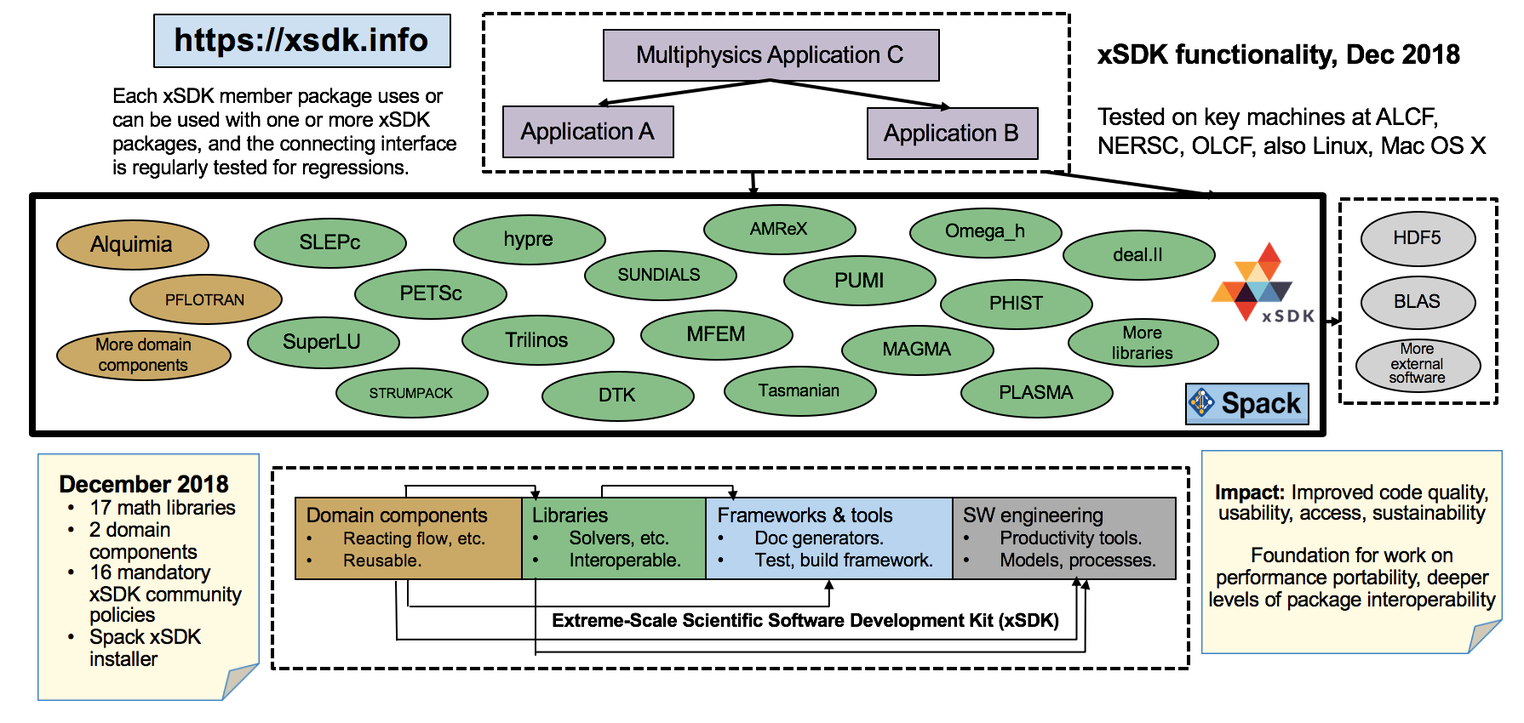
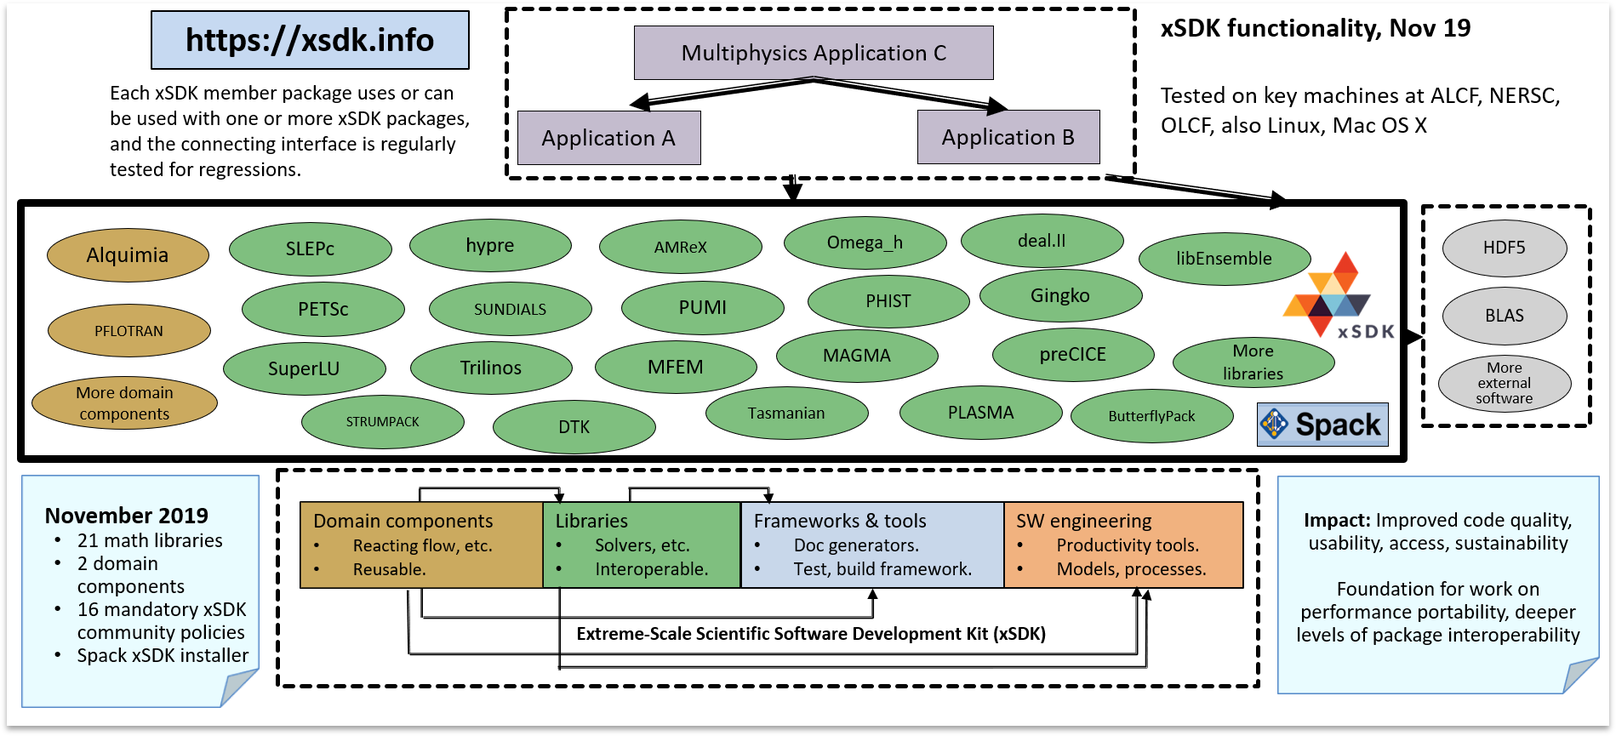
updated xsdk and hypre pages

diff --git a/projects/2.3.3-MathLibs/2.3.3.01-xSDK/2.3.3.01-xSDK.tex b/projects/2.3.3-MathLibs/2.3.3.01-xSDK/2.3.3.01-xSDK.tex
@@ -1,5 +1,5 @@
 \subsubsection{\stid{3.01} xSDK4ECP} 
-\paragraph{Overview} The xSDK4ECP project is creating a value-added aggregation of DOE math and scientific libraries through the {\em xSDK} (Extreme-scale Scientific Software Development Kit)~\cite{xsdk:homepage}, which increases the combined usability, standardization, and interoperability of these libraries as needed by ECP. The project focuses on community development and a commitment to combined success via quality improvement policies, better build infrastructure, and the ability use diverse, independently developed xSDK libraries in combination to solve large-scale multiphysics and multiscale problems.  We are extending draft xSDK package community policies and developing interoperability layers among numerical libraries in order to improve code quality, access, usability, interoperability, and sustainability. Focus areas are (1) coordinated use of on-node resources, (2) integrated execution (control inversion and adaptive execution strategies), and (3) coordinated and sustainable documentation, testing, packaging, and deployment.
+\paragraph{Overview} The xSDK4ECP project is creating a value-added aggregation of DOE math and scientific libraries through the {\em xSDK} (Extreme-scale Scientific Software Development Kit)~\cite{xsdk:homepage}, which increases the combined usability, standardization, and interoperability of these libraries as needed by ECP. The project focuses on community development and a commitment to combined success via quality improvement policies, better build infrastructure, and the ability to use diverse, independently developed xSDK libraries in combination to solve large-scale multiphysics and multiscale problems.  We are extending draft xSDK package community policies and developing interoperability layers among numerical libraries in order to improve code quality, access, usability, interoperability, and sustainability. Focus areas are (1) coordinated use of on-node resources, (2) integrated execution (control inversion and adaptive execution strategies), and (3) coordinated and sustainable documentation, testing, packaging, and deployment. Starting FY20, the project will also investigate and deploy multiprecision functionality in the ECP ST ecosystem to enable the use of low-precision hardware function units, reduce the pressure on memory and communication interfaces and achieve improved performance.
 
 xSDK4ECP is needed for ECP because it enables ECP apps such as ExaAM and ExaWind to seamlessly leverage the entire scientific libraries ecosystem.  For example, ExaWind has extremely challenging linear solver scaling problems.  xSDK4ECP provides access to all scalable linear solvers with minimal changes.  xSDK4ECP is also an essential element of the product release process for ECP ST.  xSDK4ECP provides an aggregate build and install capability for all ECP math libraries that supports hierarchical, modular installation of ECP software.  Finally, xSDK4ECP provides a forum for collaborative math library development, helping independent teams to accelerate adoption of best practices, enabling interoperability of independently developed libraries and improving developer productivity and sustainability of the ECP ST software product.
 
@@ -16,30 +16,27 @@ The xSDK effort has two primary thrusts:
 	\item \textbf{Increased use of common best practices:}  The xSDK has a collection of community policies that set expectations for a package, from best design practices to common look-and-feel.
 \end{enumerate}
 
-xSDK interoperability efforts began first with eliminating incompatibilities that prohibited correct compilation and integration of the independently developed libraries.  These issues include being able to use a common version of a library such as SuperLU by PETSc and Trilinos.  The second, and ongoing phase is increased use of one package's capabilities from another.  For example, users who build data objects using PETSc can now access Trilinos solvers without copying to Trilinos data structures.
-
-xSDK community package policies~\cite{xsdk-policies:homepage,
-xSDK-community-package-policies2018} are a set of minimum requirements (including topics of configuring, installing, testing, MPI usage, portability, contact and version information, open source licensing, namespacing, and repository access) that a software package must satisfy in order to be considered xSDK compatible. The designation of xSDK compatibility informs potential users that a package can be easily used with others. 
-
-xSDK community installation policies~\cite{xSDK-community-installation-policies2017} help make configuration and installation of xSDK software and other HPC packages as efficient as possible on common platforms, including standard Linux distributions and Mac OS X, as well as on target machines currently available at DOE computing facilities (ALCF, NERSC, and OLCF) and eventually on new Exascale platforms.
-
+xSDK interoperability efforts began first with eliminating incompatibilities that prohibited correct compilation and integration of the independently developed libraries.  These issues include being able to use a common version of a library such as SuperLU by PETSc and Trilinos.  The second, and ongoing phase is increased use of one package's capabilities from another.  For example, users who build data objects using PETSc can now access Trilinos solvers without copying to Trilinos data structures. xSDK community package policies~\cite{xsdk-policies:homepage,xSDK-community-package-policies2019} are a set of minimum requirements (including topics of configuring, installing, testing, MPI usage, portability, contact and version information, open source licensing, namespacing, and repository access) that a software package must satisfy in order to be considered xSDK compatible. The designation of xSDK compatibility informs potential users that a package can be easily used with others. 
+xSDK community installation policies~\cite{xSDK-community-installation-policies2019} help make configuration and installation of xSDK software and other HPC packages as efficient as possible on common platforms, including standard Linux distributions and Mac OS X, as well as on target machines currently available at DOE computing facilities (ALCF, NERSC, and OLCF) and eventually on new Exascale platforms.
 Community policies for the xSDK promote long-term sustainability and interoperability among packages, as a foundation for supporting complex multiphysics and multiscale ECP applications. In addition, because new xSDK packages will follow the same standard, installation software and package managers (for example, Spack~\cite{gamblin+:sc15}) can easily be extended to install many packages automatically.
 
+For the adaptive execution effort, the team is working towards GPTune, a Gaussian process tuner, to help math library users to find the optimal parameter settings for the libraries to achieve high performance for their applications. In addition, an interface will be created to also give access to alternate autotuners.
+Regarding the multiprecision effort, the project will assess current status and functionalities, advance the theoretical knowledge on multiprecision algorithms, design prototype implementations and multiprecision interoperability layers, deploy production-ready multiprecision algorithms in the xSDK math libraries, ensure multiprecision cross-library interoperability and integrate multiprecision algorithms into ECP application projects.
 
 \paragraph{Recent Progress}
 
 Figure~\ref{fig:xsdk-schematic} illustrates a new {\em Multiphysics
 	Application C}, built from two complementary applications that can
-readily employ any libraries in the xSDK, shown in green.  Current xSDK member packages (xSDK-0.4.0, released December 2018) are the four founding libraries
-(hypre~\cite{hypre:homepage}, PETSc~\cite{petsc:homepage}, SuperLU~\cite{superlu:homepage}, and Trilinos~\cite{trilinos:homepage}), three libraries added in xSDK-0.3.0, released December 2017 (MAGMA~\cite{magma:homepage}, MFEM~\cite{mfem:homepage}, and SUNDIALS~\cite{sundials:homepage}), and ten more libraries added in this release, including seven with DOE support (AMRex~\cite{amrex:homepage}, DTK~\cite{dtk:homepage}, Omega\_h~\cite{omega_h:homepage}, PLASMA~\cite{plasma:homepage}, PUMI~\cite{pumi:homepage}, STRUMPACK~\cite{strumpack:homepage}, and Tasmanian~\cite{tasmanian:homepage}) and three in the broader community (deal.II~\cite{deal.ii:homepage}, PHIST~\cite{phist:homepage}, and SLEPc~\cite{slepc:homepage}).  
+readily employ any libraries in the xSDK, shown in green.  Current xSDK member packages (xSDK-0.5.0, released November 2019) are the four founding libraries
+(hypre~\cite{hypre:homepage}, PETSc~\cite{petsc:homepage}, SuperLU~\cite{superlu:homepage}, and Trilinos~\cite{trilinos:homepage}), three libraries added in xSDK-0.3.0, released December 2017 (MAGMA~\cite{magma:homepage}, MFEM~\cite{mfem:homepage}, and SUNDIALS~\cite{sundials:homepage}), and ten more libraries added xSDK-0.4.0, released in December 2018, including seven with DOE support (AMRex~\cite{amrex:homepage}, DTK~\cite{dtk:homepage}, Omega\_h~\cite{omega_h:homepage}, PLASMA~\cite{plasma:homepage}, PUMI~\cite{pumi:homepage}, STRUMPACK~\cite{strumpack:homepage}, and Tasmanian~\cite{tasmanian:homepage}) and three in the broader community (deal.II~\cite{deal.ii:homepage}, PHIST~\cite{phist:homepage}, and SLEPc~\cite{slepc:homepage}), and four new xSDK members libEnsemble~\cite{libensemble:homepage}, Ginkgo~\cite{ginkgo:homepage}, preCICE~\cite{precice:homepage}, and ButterflyPACK~\cite{butterflypack:homepage}.
 Application domain components are represented
 in orange.  Of particular note is Alquimia~\cite{alquimia:homepage}, a domain-specific interface
 that support uniform access to multiple biogeochemistry capabilities, including
-PFLOTRAN~\cite{pflotran:homepage}.  Additional libraries are working toward becoming xSDK member packages and plan to participate in future xSDK releases.
+PFLOTRAN~\cite{pflotran:homepage}.  Additional libraries have announced their interest in working toward becoming xSDK member packages and participating in future xSDK releases.
 \begin{figure}[htb]
 	\centering
-	\includegraphics[width=6in]{projects/2.3.3-MathLibs/2.3.3.01-xSDK/xSDK-diagram.png}
-	\caption{\label{fig:xsdk-schematic}The December 2018 release of the xSDK contains many of the most popular math and scientific libraries used in HPC.  The above diagram shows how multiphysics and multiscale applications can readily access xSDK packages.}
+	\includegraphics[width=5in]{projects/2.3.3-MathLibs/2.3.3.01-xSDK/xSDK-diagram.png}
+	\caption{\label{fig:xsdk-schematic} The above diagram shows how multiphysics and multiscale applications can readily access xSDK packages.}
 \end{figure}
 
 % The arrows among the xSDK libraries indicate current support for
@@ -51,21 +48,18 @@ PFLOTRAN~\cite{pflotran:homepage}.  Additional libraries are working toward beco
 % a nonlinear system, which in turn could interface to hypre to solve
 % the resulting linear systems with algebraic multigrid.  Of course,
 % many other combinations of solver interoperability are also possible.
-Each xSDK member package uses or can be used with one or more xSDK packages, and the connecting interface is regularly tested for regressions.  
-The sites \url{https://xsdk.info/example-usage} and 
-\url{https://xsdk-project.github.io/ATPESC2018HandsOnLessons}, as well as
-\cite{Klinvex-xSDKTrilinos} provide examples of
-xSDK usage, including interoperability among linear solvers in hypre,
-PETSc, SuperLU, and Trilinos.
-
+%Each xSDK member package uses or can be used with one or more xSDK packages, and the connecting interface is regularly tested for regressions.  
+%The sites \url{https://xsdk.info/example-usage} and \cite{Klinvex-xSDKTrilinos} provide examples of xSDK usage, including interoperability among linear solvers in hypre, PETSc, SuperLU, and Trilinos.
+The xSDK team also continued development of the community policies with a new release 0.5.0. The policies were updated, and a new recommended policy was added with feedback from the ECP community. The policies were moved to github, and the process on changing or proposing policies has been updated.
 
 \paragraph{Next Steps}
 
+Our next efforts include the incorporation of more libraries and the extension of application usage to evaluate the effectiveness of current functionality and to motivate new capabilities. Regarding autotuning of code performance, we will finish a prototype autotuning framework using the multi-output Gaussian process ML approach which includes multitask and transfer learning. The xSDK4ECP team will also investigate the use of multiprecision for math libraries and document the results of the investigation.
+%\begin{enumerate}
+%	\item \textbf{Include more libraries:} xSDK4ECP will continue efforts to expand the number of participating packages, adapt community policies, and exploit increased interoperability.  We are coordinating with broader SDK efforts and working toward the inclusion of additional domain application packages.
+%	\item \textbf{Extend application usage:}  xSDK4ECP will continue partnering with application teams to evaluate the effectivness of current functionality and to motivate new capabilities.
+%	\item \textbf{Autotuning of code performance:} The team will finish a prototype autotuning framework using the multi-output Gaussian Process ML approach which includes multitask and transfer learning.
+%	\item \textbf{Multiprecision effort:} The xSDK4ECP team will investigate the use of multiprecision for the math libraries and document the results of the investigation. 
 
-Our next efforts are:
-\begin{enumerate}
-	\item \textbf{Include more libraries:} xSDK4ECP will continue efforts to expand the number of participating packages, adapt community policies, and exploit increased interoperability.  We are coordinating with broader SDK efforts and working toward the inclusion of additional domain application packages.
-	\item \textbf{Extend application usage:}  xSDK4ECP will continue partnering with application teams to evaluate the effectivness of current functionality and to motivate new capabilities.
-% 		\item \textbf{Process control transfer interfaces:} The ever-increasing use of concurrency within the top-level MPI processes requires that computational resources used by an application or library can be transferred to another library. Transfer of these resources is essential for obtaining good performance.  The xSDK project will develop interfaces to support sharing and transfer of computational resources.
-	
-\end{enumerate}
+% 		\item \textbf{Process control transfer interfaces:} The ever-increasing use of concurrency within the top-level MPI processes requires that computational resources used by an application or library can be transferred to another library. Transfer of these resources is essential for obtaining good performance.  The xSDK project will develop interfaces to support sharing and transfer of computational resources.	
+%\end{enumerate}

diff --git a/projects/2.3.3-MathLibs/2.3.3.12-SUNDIALS-hypre/2.3.3.12-hypre.tex b/projects/2.3.3-MathLibs/2.3.3.12-SUNDIALS-hypre/2.3.3.12-hypre.tex
@@ -2,44 +2,44 @@
 
 
 \paragraph{Overview} 
-The {\sl hypre} software library \cite{hypre,hypre_design_impl_2006} provides high performance preconditioners and solvers for the solution of large sparse linear systems on massively parallel computers, with particular focus on algebraic multigrid solvers. One of {\sl hypre}’s unique features is the provision of a (semi)-structured interface, in addition to a traditional linear-algebra based interface. The semi-structured interface is appropriate for applications whose grids are mostly structured, but with some unstructured features. Examples include block-structured grids, composite grids in structured adaptive mesh refinement (AMR) applications, and overset grids. These interfaces give application users a more natural means for describing their linear systems, and provide access to methods such as structured multigrid solvers, which can take advantage of the additional information beyond just the matrix. Since current architecture trends are favoring regular compute patterns to achieve high performance, the ability to express structure has become much more important. The {\sl hypre} library provides both unstructured and structured multigrid solvers, which have shown excellent scalability on a variety of high performance computers, e.g Blue Gene systems (unstructured solver BoomerAMG has scaled up to 1.25 million MPI cores with a total of 4.5 million hardware threads). It is used by many ECP application teams, including ExaAM, Subsurface, ExaWind, CEED, and more. It requires a C compiler and an MPI implementation, but it also runs in an OpenMP environment. It has some GPU capabilities.
+The {\sl hypre} software library \cite{hypre:homepage,hypre_design_impl_2006} provides high performance preconditioners and solvers for the solution of large sparse linear systems on massively parallel computers, with particular focus on algebraic multigrid solvers. One of {\sl hypre}’s unique features is the provision of a (semi)-structured interface, in addition to a traditional linear-algebra based interface. The semi-structured interface is appropriate for applications whose grids are mostly structured, but with some unstructured features. Examples include block-structured grids, composite grids in structured adaptive mesh refinement (AMR) applications, and overset grids. These interfaces give application users a more natural means for describing their linear systems, and provide access to methods such as structured multigrid solvers, which can take advantage of the additional information beyond just the matrix. Since current architecture trends are favoring regular compute patterns to achieve high performance, the ability to express structure has become much more important. The {\sl hypre} library provides both unstructured and structured multigrid solvers, which have shown excellent scalability on a variety of high performance computers, e.g Blue Gene systems (unstructured solver BoomerAMG has scaled up to 1.25 million MPI cores with a total of 4.5 million hardware threads). It is used by many ECP application teams, including ExaAM, Subsurface, ExaWind, CEED, and more. It requires a C compiler and an MPI implementation, but it also runs in an OpenMP environment. It has some GPU capabilities.
+
 \paragraph{Key  Challenges}
 
-While {\sl hypre}'s solvers contain much parallelism, their main focus is the solution of sparse linear systems, leading to  very large demands on memory bandwidth. In addition, the use of multiple levels, while greatly aiding convergence of the solvers, leads to decreasing systems sizes, number of operations and parallel efficiencies on coarser levels. Particularly the unstructured algebraic multigrid solver BoomerAMG\cite{HeYa2002}, which is {\sl hypre}'s most often used preconditioner, suffers from increasing communication complexities on coarser levels. Coarse grid operators are generated by multiplying three matrices leading to increasing numbers of nonzeroes per row in the resulting matrices and with it increasing numbers of neighbor processes. While BoomerAMG's solve phase mainly consists of matrix vector products and smoothing operations, which are fairly straight forward to parallelize, even on a GPU, its setup phase is highly complex, including many branches, a lot of integer operations as well as some sequential passages. Current  interpolation strategies that lead to best convergence and performance on distributed memory machines are not suitable for implementation on GPUs or similar architectures requiring extreme parallelism. There are several algorithms that are more suitable for GPUs, such as direct interpolation, which however leads to degraded convergence. It could possibly be improved using Jacobi interpolation. All these options would need to be implemented and tested on GPUs. Since {\sl hypre} is a mature product with many solvers and interdependent features, any significant changes that affect the whole library, are tedious and require much testing to ensure that the library stays backward compatible and no features are broken.
+While {\sl hypre}'s solvers contain much parallelism, their main focus is the solution of sparse linear systems, leading to  very large demands on memory bandwidth. In addition, the use of multiple levels, while greatly aiding convergence of the solvers, leads to decreasing systems sizes, number of operations and parallel efficiencies on coarser levels. Particularly the unstructured algebraic multigrid solver BoomerAMG\cite{HeYa2002}, which is {\sl hypre}'s most often used preconditioner, suffers from increasing communication complexities on coarser levels. Coarse grid operators are generated by multiplying three matrices leading to increasing numbers of nonzeroes per row in the resulting matrices and with it increasing numbers of neighbor processes. While BoomerAMG's solve phase mainly consists of matrix vector products and smoothing operations, which are fairly straight forward to parallelize, even on a GPU, its setup phase is highly complex, including many branches, a lot of integer operations as well as some sequential passages. Current  interpolation strategies that lead to best convergence and performance on distributed memory machines are not suitable for implementation on GPUs or similar architectures requiring extreme parallelism. Since {\sl hypre} is a mature product with many solvers and interdependent features, any significant changes that affect the whole library, are tedious and require much testing to ensure that the library stays backward compatible and no features are broken.
 
 \paragraph{Solution Strategy}
 
-Since the upcoming computer architectures are heterogeneous with accelerators, it was very important to enable {\sl hypre} for GPUs. We looked into various options, such as the use of CUDA, OpenMP 4.5, as well as RAJA and Kokkos. We limited the latter two options to the structured interface and solvers which are more natural candidates for such an approach due to their use of macros, called BoxLoops, for loops.
-Since computer architectures continue to change rapidly, it is important to come up with strategies that will facilitate future porting of the software. Therefore we decided to develop a new memory model that addresses the use of different memory locations.
+Since computer architectures continue to change rapidly, it was important to come up with strategies that will facilitate future porting of the software. Therefore we developed and implemented a new memory model that addresses the use of different memory locations.
+Since the upcoming computer architectures are heterogeneous with accelerators, we focus on enabling {\sl hypre} for GPUs. We have looked into various options, such as the use of CUDA, OpenMP 4.5, as well as RAJA and Kokkos. We limited the latter two options to the structured interface and solvers which are more natural candidates for such an approach due to their use of macros, called BoxLoops, for loops. We will also investigate the use of HIP and SYCL for AMD and Intel accelerators that will be available on future exascale computers.
 
 \paragraph{Recent Progress}
 
-Under internal LLNL funding we pursued the following ECP-related tasks: enabling portions of several solvers for GPUs, and introducing a new memory model that is based on an abstract machine model.
-We  implemented the new memory model as well as 
-various GPU capabilities in {\sl hypre}. For the structured solvers, SMG and PFMG\cite{AsFa1996}, both setup and solve phase can now completely be run on GPUs, using both CUDA or OpenMP4.5, and do not require unified memory. In addition, options to use RAJA and Kokkos are available, albeit not well tested yet. 
-Porting the unstructured solver, BoomerAMG turned out to be far more complex. Currently only the solve phase can be run on the GPU for select smoothers, mainly Jacobi smoothers, and requires unified memory. The setup phase can currently be performed on the CPU only.
+Previously, we enabled the structured solvers, SMG and PFMG\cite{AsFa1996}, both setup and solve phase, to completely run on GPUs, using both CUDA or OpenMP4.5, and to not require unified memory. In addition, options to use RAJA and Kokkos are available.
+Porting the unstructured solver, BoomerAMG turned out to be far more complex. We first ported the solve phase to GPUs for select smoothers, mainly Jacobi smoothers, requiring unified memory. During the last year, we focused on enabling selected components of the setup phase to run on GPUs, specifically PMIS coarsening, direct interpolation, and the generation of the coarse grid operator, which consists of the multiplication of three sparse matrices. Figure \ref{fig:rap} shows runtime comparisons of different implementations of the coarse grid operator generation on one V-100 GPU or one Power 9, which demonstrate that the hypre GPU implementation outperforms state-of-the-art implementations such as CUSP and cuSPARSE. It is now possible to perform a complete linear system solve with BoomerAMG on GPUs using specific settings.
 
 \begin{figure}
 \centering
-	\includegraphics[width=5in]{projects/2.3.3-MathLibs/2.3.3.01-xSDK/COGMRES.png}
-	\caption{\label{fig:cogmres} Performance of new GMRES on Vulcan at LLNL}
+	\includegraphics[width=5in]{projects/2.3.3-MathLibs/2.3.3.12-SUNDIALS-hypre/hypre-rap-1gpu.png}
+	\caption{\label{fig:rap} Runtimes to generate a coarse grid operator for a 7pt 3d Laplace problem matrix on 1 V-100 GPU or Power 9 CPU with up to 20 OMP threads for various implementations}
 \end{figure}
-`
-Under new ECP funding, we implemented a new GMRES solver that has better communication and parallelization properties than the current one and showed improved performance on a BG/Q. 
-Figure \ref{fig:cogmres} illustrates the percentage of improvement for increasing the Krylov subspace size k for a 27-point 3D diffusion problem with n x n x n grid points per core using 8192 cores, where n=10, 20, 30, 40, 50, 60. 
-For most runs loop unrolling in 8 batches was used, except for `10, no', where none was used to show the effect of saving communication and for n=40, where 4 batches were used. The current implementation is restricted to the CPU, but the solver shows great potential for GPUs. The design of the new solver was a collaboration with the ExaWind team, who demonstrated excellent GPU performance in a paper submitted to Numerical Linear Algebra with Applications \cite{cogmres}. 
-We have also started to introduce a new integer datatype called HYPRE$\_$BigInt. The current {\sl hypre} version requires that all integers are converted to 64 bits when solving linear systems greater than 2 billions using the unstructured solvers. The new datatype will allow to only convert variables that need to be 64 bits in that case. This will improve performance and memory usage.
+
+We also implemented a new integer datatype called HYPRE$\_$BigInt to avoid the requirement that all integers need to be converted to 64 bit integers when solving linear systems greater than 2 billions using the unstructured solvers. The new datatype allows to only convert variables that need to be 64 bit integers and improves memory usage and performance, as illustrated in Figure \ref{fig:mixed-int}.
+
+\begin{figure}
+\centering
+	\includegraphics[width=3in]{projects/2.3.3-MathLibs/2.3.3.12-SUNDIALS-hypre/hypre-mixed-int.png}
+	\caption{\label{fig:mixed-int} Weak scaling study on LLNL Linux cluster Quartz: Total runtimes in seconds for AMG-PCG using 1M points/core for 2 different 3D diffusion problems.The new mixed-int capability performs about 20-25 percent better than the 64 bit integer version while using less memory and is capable to solve larger problems than the 32 bit integer version.}
+\end{figure}
 
 \paragraph{Next Steps}
 
 We will pursue the following tasks:
 
 \begin{itemize}
-
-\item We will finalize the implementation of HYPRE$\_$BigInt and make the new capability available to {\sl hypre} users. 
-
-\item We will continue to add new GPU capabilities to {\sl hypre}. This includes converting various components that are currently running only on the CPU to be usable on the GPU using CUDA or OpenMP 4.5. We will particularly focus on some of the smoothers, e.g. polynomial smoothers, the new GMRES solver, as well as suitable setup kernels. We also plan on improving the efficiency of interfacing applications with {\sl hypre}'s solvers.
+\item We will continue to add new GPU capabilities to {\sl hypre}. This includes converting various components that are currently running only on the CPU to be usable on the GPU using CUDA or OpenMP 4.5. We will particularly focus on additional setup components, such as interpolation operators, to achieve better convergence.
+\item We also plan on improving the efficiency of interfacing applications with {\sl hypre}'s solvers.
 \end{itemize}
-In addition, we would like to work with ECP application teams who are using {\sl hypre} or would like to use it, to achieve best performance by tuning the solvers for them and potentially implementing suitable algorithmic changes. 
+In addition, we will work with ECP application teams who are using {\sl hypre}, such as ExaWind, or would like to use it, to achieve best performance by tuning the solvers for them and potentially implementing suitable algorithmic changes. 
 
 
